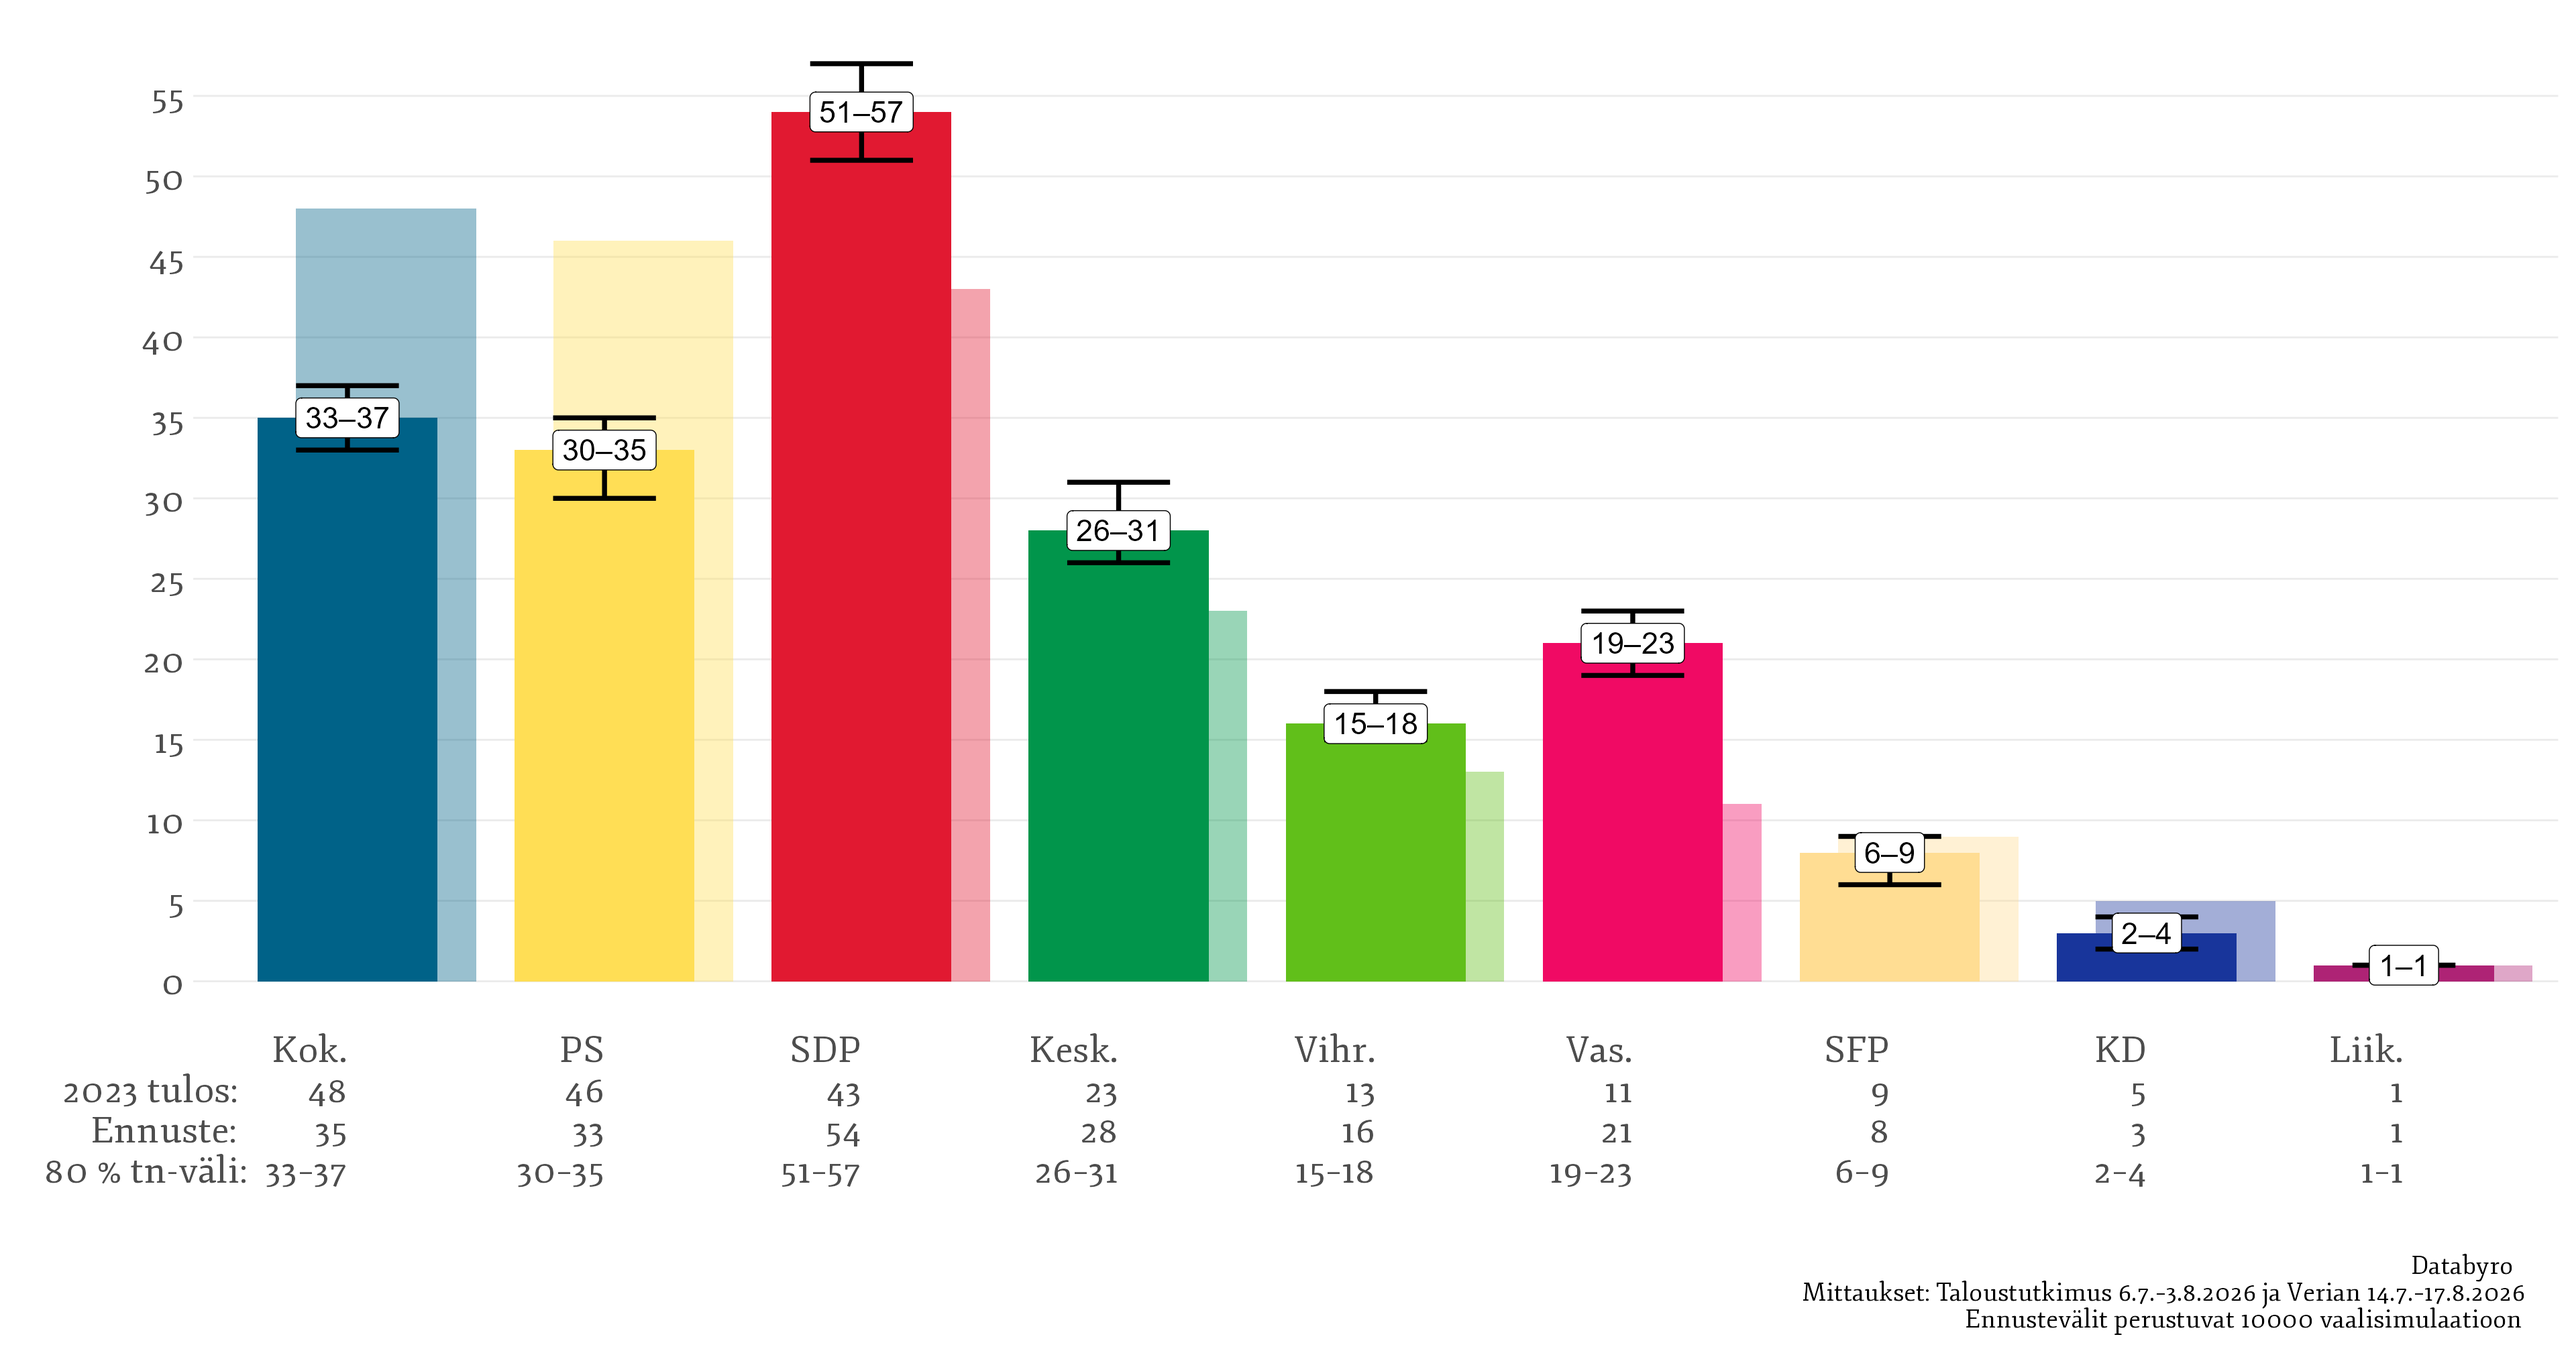
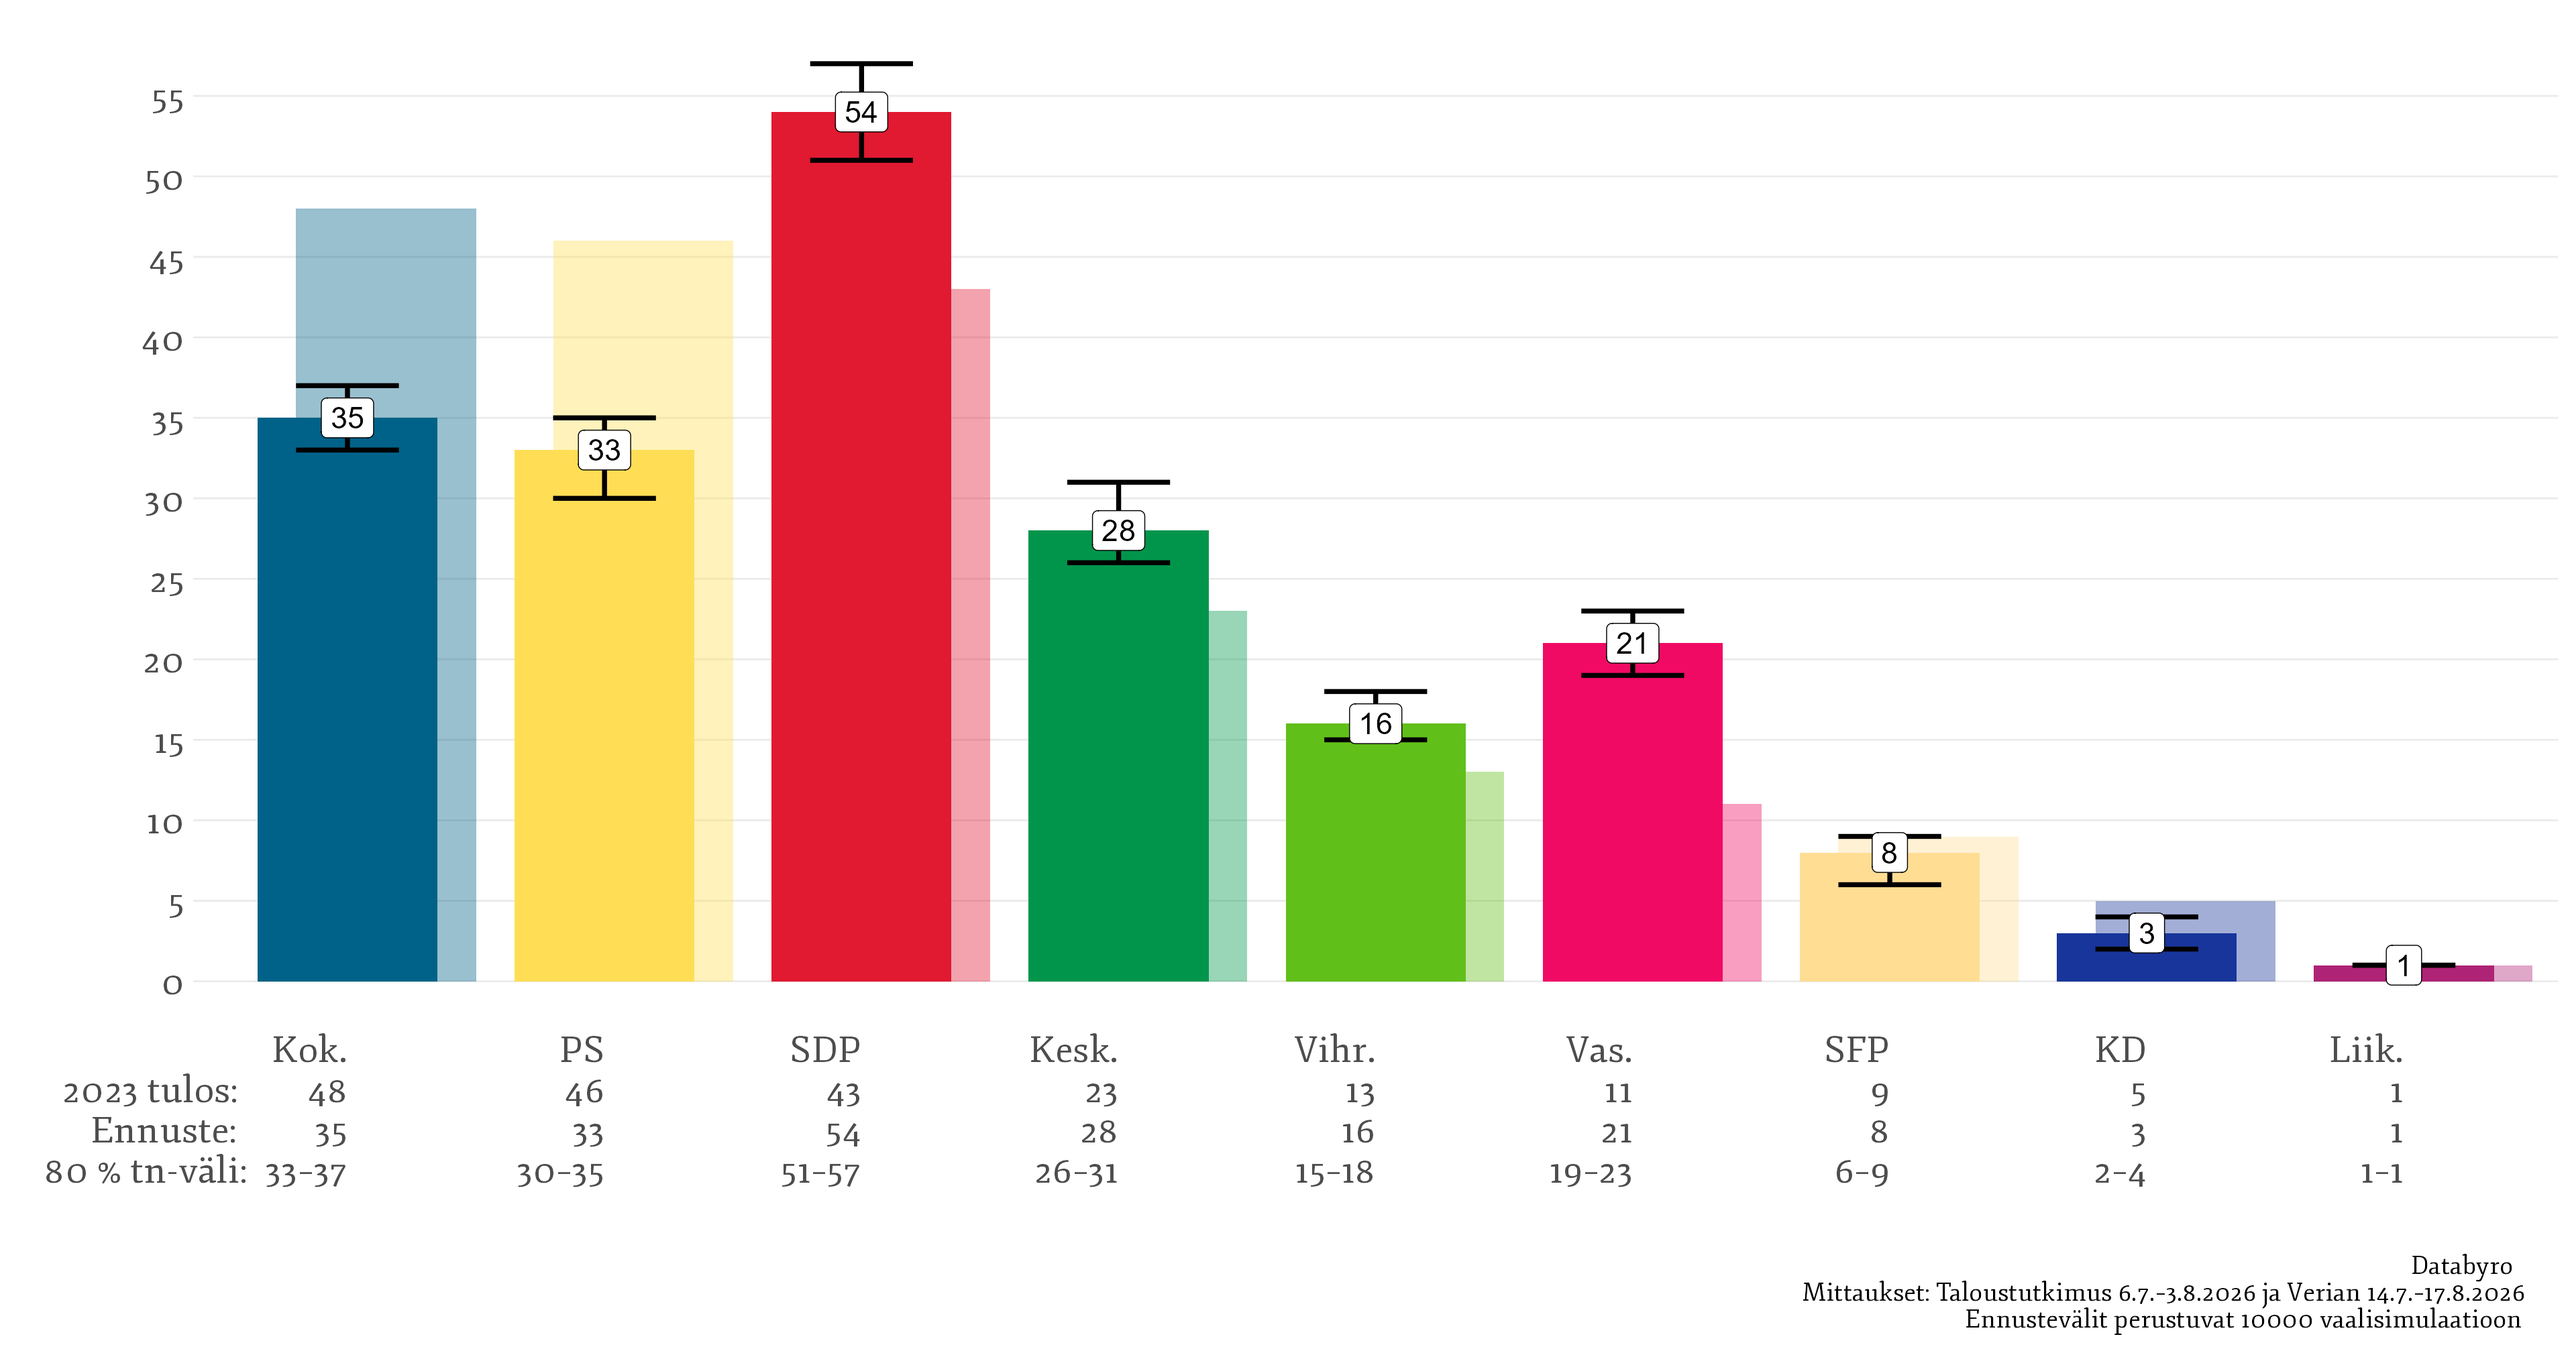
Add files via upload

diff --git a/eduskuntavaalit-2027/paikkaennuste/2026-08/index.md b/eduskuntavaalit-2027/paikkaennuste/2026-08/index.md
@@ -1,5 +1,6 @@
 ---
 layout: paikkaennuste
 title: "Paikkaennuste, elokuu 2026"
+date: 2026-10-20
 ---
-Laskettu jälkikäteen 20.10.2026 kyselyistä Taloustutkimus 6.7.–3.8.2026 ja Verian 14.7.–17.8.2026.
+Laskettu kyselyistä Taloustutkimus 6.7.–3.8.2026 ja Verian 14.7.–17.8.2026.
